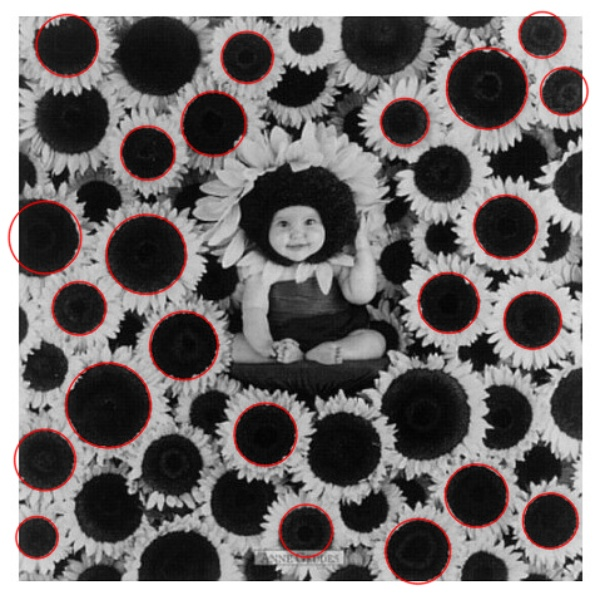
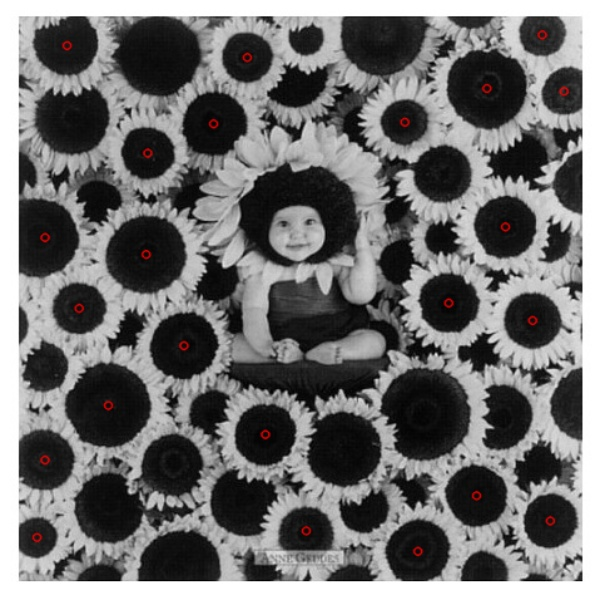
#ocv_update

diff --git a/detectors.cpp b/detectors.cpp
@@ -14,15 +14,15 @@ int main() {
     Mat src = imread("/home/oracle/Project/Images/forth1.jpg", CV_LOAD_IMAGE_GRAYSCALE);
     Mat sec_src = imread("/home/oracle/Project/Images/exam.jpg", CV_LOAD_IMAGE_GRAYSCALE);
     Mat third_src = imread("/home/oracle/Project/Images/lena.jpg", CV_LOAD_IMAGE_GRAYSCALE);
-    Ptr<Feature2D> f2d = SURF::create(500);
-    Ptr<Feature2D> f2d_sift = SIFT::create();
+    Ptr<Feature2D> f2d = SURF::create(800);
+    Ptr<Feature2D> f2d_sift = SIFT::create(); //  trying cycles
     // Setup SimpleBlobDetector parameters.
     SimpleBlobDetector::Params params;
 
     //rotating pictures
     cv::Mat src_rotated;
     cv::Point2d src_center(src.cols * 0.5, src.rows * 0.5); // defining a center of the source picture
-    cv::Mat rot_mat = cv::getRotationMatrix2D(src_center, 30 , 1);  // creating a rotation matrix
+    cv::Mat rot_mat = cv::getRotationMatrix2D(src_center, 15 , 1);  // creating a rotation matrix
     warpAffine(src, src_rotated, rot_mat, src.size());
 
     cv::Mat sec_src_rotated;
@@ -64,7 +64,7 @@ int main() {
     std::vector<KeyPoint> points_one, points_two, blobe_points_one, blobe_points_two;
     std::vector<KeyPoint> points_sift_one, points_sift_two;
     f2d -> detectAndCompute(src, Mat(), points_one, descriptor_one); //surf
-    f2d -> detectAndCompute(src_rotated, Mat(),  points_two, descriptor_two);
+    f2d -> detectAndCompute(src_rotated, Mat(), points_two, descriptor_two);
     f2d_sift -> detectAndCompute(third_src, Mat(), points_sift_one, descriptor_sift_one);
     f2d_sift -> detectAndCompute(third_src_rotated, Mat(), points_sift_two, descriptor_sift_two);
     blobe_detector -> detect(sec_src, blobe_points_one);
@@ -72,12 +72,12 @@ int main() {
 
     Mat keys_one, keys_two, blobe_keys_one, blobe_keys_two, sift_keys_one, sift_keys_two;
 
-    drawKeypoints(src, points_one, keys_one, Scalar::all(-1), DrawMatchesFlags::DEFAULT);
-    drawKeypoints(src_rotated, points_two, keys_two, Scalar::all(-1), DrawMatchesFlags::DEFAULT);
-    drawKeypoints(sec_src, blobe_points_one, blobe_keys_one, Scalar(0,0,255), DrawMatchesFlags::DRAW_RICH_KEYPOINTS);
-    drawKeypoints(sec_src_rotated, blobe_points_two, blobe_keys_two, Scalar(0,0,255), DrawMatchesFlags::DRAW_RICH_KEYPOINTS);
-    drawKeypoints(third_src, points_sift_one, sift_keys_one, Scalar(0,0,255), DrawMatchesFlags::DRAW_RICH_KEYPOINTS);
-    drawKeypoints(third_src_rotated, points_sift_two, sift_keys_two, Scalar(0,0,255), DrawMatchesFlags::DRAW_RICH_KEYPOINTS);
+    drawKeypoints(src, points_one, keys_one, Scalar(0, 0, 255), DrawMatchesFlags::NOT_DRAW_SINGLE_POINTS);
+    drawKeypoints(src_rotated, points_two, keys_two, Scalar(0, 0, 255), DrawMatchesFlags::NOT_DRAW_SINGLE_POINTS);
+    drawKeypoints(sec_src, blobe_points_one, blobe_keys_one, Scalar(0,0,255), DrawMatchesFlags::NOT_DRAW_SINGLE_POINTS);
+    drawKeypoints(sec_src_rotated, blobe_points_two, blobe_keys_two, Scalar(0,0,255), DrawMatchesFlags::NOT_DRAW_SINGLE_POINTS);
+    drawKeypoints(third_src, points_sift_one, sift_keys_one, Scalar(0,0,255), DrawMatchesFlags::NOT_DRAW_SINGLE_POINTS);
+    drawKeypoints(third_src_rotated, points_sift_two, sift_keys_two, Scalar(0,0,255), DrawMatchesFlags::NOT_DRAW_SINGLE_POINTS);
 
 
     // image too large to fill the screen
@@ -89,7 +89,7 @@ int main() {
     Mat sized_keys_sift_two;
 
     resize(keys_one, sized_keys_one, Size(600, 800), 0, 0, INTER_LINEAR);
-    resize(keys_two, sized_keys_two,Size(600, 800), 0, 0, INTER_LINEAR);
+    resize(keys_two, sized_keys_two, Size(600, 800), 0, 0, INTER_LINEAR);
     resize(blobe_keys_one, sized_keys_blobe_one, Size(600, 600), 0, 0, INTER_LINEAR);
     resize(blobe_keys_two, sized_keys_blobe_two, Size(600, 600), 0, 0, INTER_LINEAR);
     resize(sift_keys_one, sized_keys_sift_one, Size(600, 600), 0, 0, INTER_LINEAR);
@@ -101,8 +101,8 @@ int main() {
     imshow ("SURF", sized_keys_one);
     imshow ("SURF2", sized_keys_two);
     waitKey(0);
-    destroyWindow("SURF");
-    destroyWindow("SURF2");
+//    destroyWindow("SURF");
+//    destroyWindow("SURF2");
 
     namedWindow("BLOBE", CV_WINDOW_AUTOSIZE);
     namedWindow("BLOBE2", CV_WINDOW_AUTOSIZE);
@@ -129,7 +129,7 @@ int main() {
 
 
     //matching
-    BFMatcher matcher;
+    FlannBasedMatcher matcher;
     BFMatcher matcher_sift;
     std::vector<DMatch> surf_matches_vector;
     std::vector<DMatch> sift_matches_vector;
@@ -143,7 +143,6 @@ int main() {
     imshow ("SURF_matches", surf_matches);
 
     waitKey(0);
-    destroyWindow("SURF_matches");
 
     namedWindow("SIFT_matches", 1);
     Mat sift_matches;
@@ -151,6 +150,7 @@ int main() {
     imshow ("SIFT_matches", sift_matches);
 
     waitKey(0);
+
 
     return 0;
 }

diff --git a/base_search.cpp b/base_search.cpp
@@ -39,5 +39,9 @@ int main() {
         data.push_back(new_elem);
     }
 
+
+
+
+
     return 0;
 }
